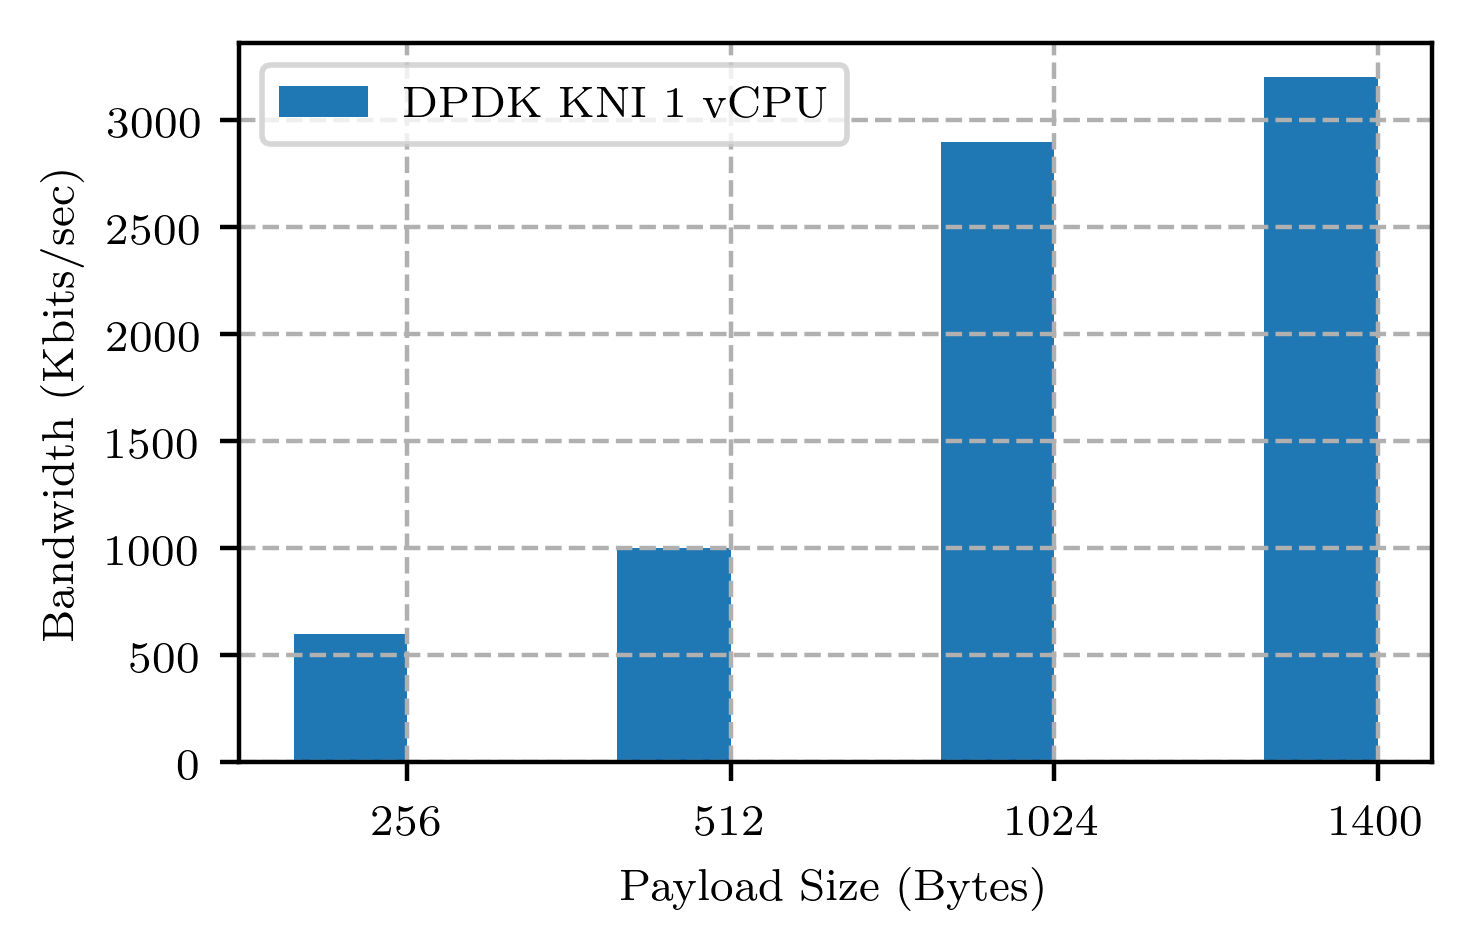
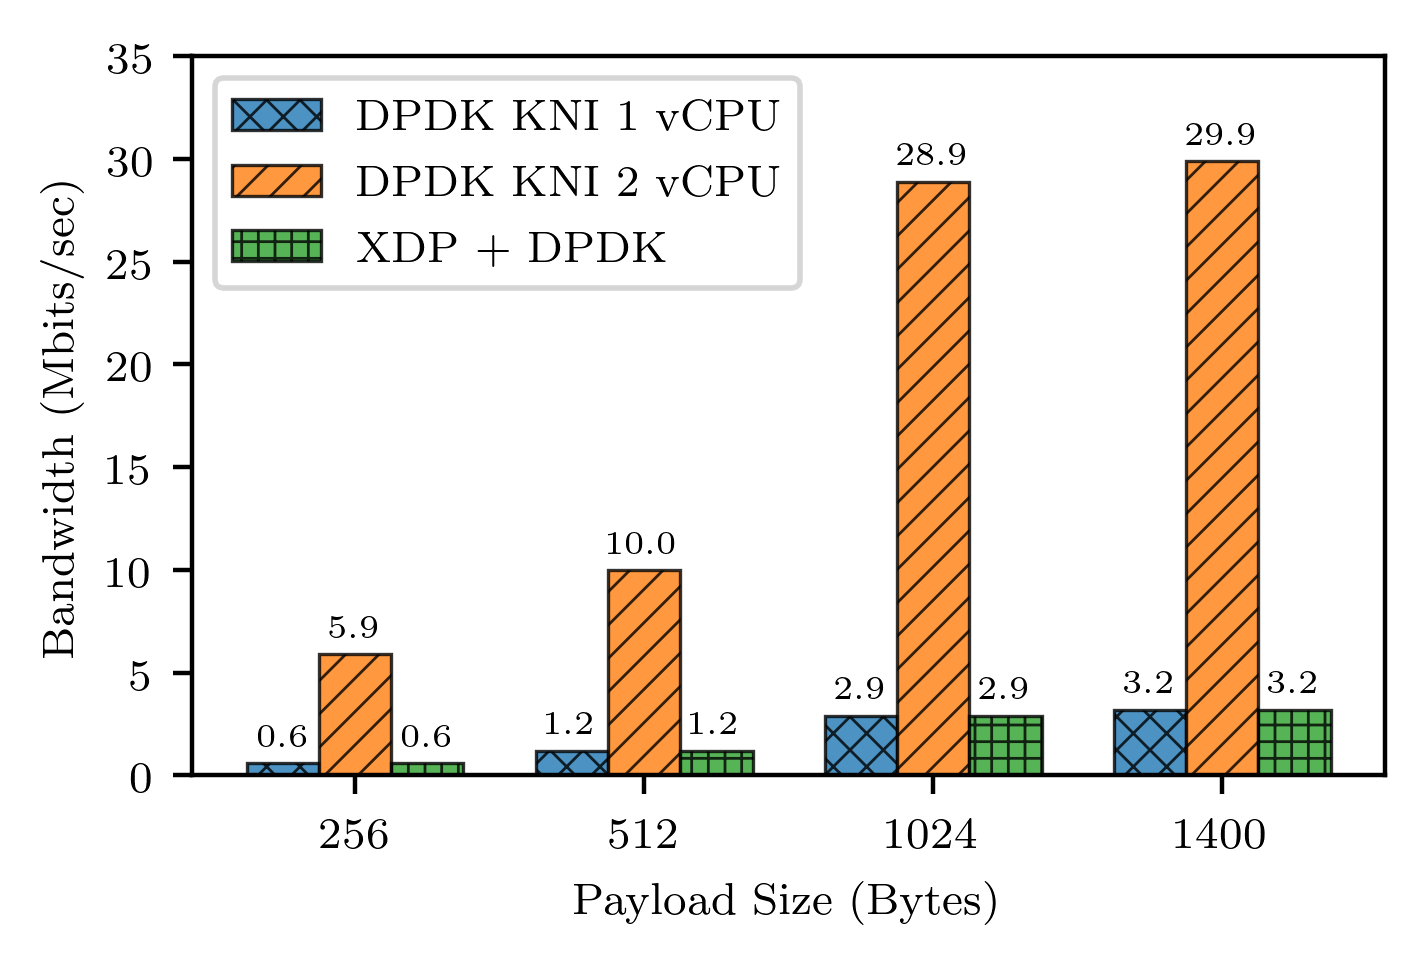
<feat>: Add bw calculation in OWD timer

diff --git a/delay_timer/udp_owd_timer.py b/delay_timer/udp_owd_timer.py
@@ -4,8 +4,10 @@
 
 """
 About: UDP One-Way Delay (OWD) timer
+
        - Packets are sent via layer 4 socket (AF_INET, SOCK_DGRAM)
        - Use synchronous and blocking IO
+       - The server CAN also calculate the bandwidth. Only used for tests.
 
 Email: xianglinks@gmail.com
 """
@@ -68,7 +70,7 @@ def run_client():
         send_sock.close()
 
 
-def run_server():
+def run_server(bw, payload_size):
     """Run UDP server"""
 
     recv_sock = socket.socket(socket.AF_INET, socket.SOCK_DGRAM,
@@ -92,6 +94,8 @@ def run_server():
 
     owd_result = list()
     data_buffer = list()
+    bw_mon_st = 0
+    bw_mon_end = 0
 
     try:
         for rd in range(1, ROUND + 1):
@@ -107,29 +111,50 @@ def run_server():
                 # So now first try to receiving as fast as possible and
                 # calculate latter...
                 data = recv_sock.recv(SRV_BUFFER_SIZE)
+                if recv_idx == 0:
+                    bw_mon_st = time.time()
                 recv_ts = int(time.time() * 1e6)
                 data_buffer.append((data, recv_ts))
                 recv_idx += 1
             else:
+                bw_mon_end = time.time()
                 # Check if receive all packets
                 if len(data_buffer) != N_PACKETS:
                     raise Exception("[Server] Not all packets are received.")
-                logger.info(
-                    "[Server] Finish receiving packets, check ordering and calculate OWDs")
-                for recv_idx, (data, recv_ts) in enumerate(data_buffer):
-                    send_idx, send_ts = struct.unpack('!QQ', data[0:16])
-                    if recv_idx != send_idx:
-                        raise Exception(
-                            "The packet order is not right!, send_idx:%d, recv_idx:%d"
-                            % (send_idx, recv_idx)
-                        )
-                    owd = recv_ts - send_ts
-                    owd_result.append(owd)
+                if bw:
+                    logger.info(
+                        "[Server] Finish receiving packets, check ordering and calculate bandwidth")
+                    for recv_idx, (data, recv_ts) in enumerate(data_buffer):
+                        send_idx, send_ts = struct.unpack('!QQ', data[0:16])
+                        if recv_idx != send_idx:
+                            raise Exception(
+                                "The packet order is not right!, send_idx:%d, recv_idx:%d"
+                                % (send_idx, recv_idx)
+                            )
+                    # bytes/second
+                    bw = ((N_PACKETS-1) * payload_size) / \
+                        (bw_mon_end - bw_mon_st)
+                    # Mbits/second
+                    bw = bw * 8 / (10.0**6)
+                    csv_file.write(str(bw))
+                    csv_file.write('\n')
+                else:
+                    logger.info(
+                        "[Server] Finish receiving packets, check ordering and calculate OWDs")
+                    for recv_idx, (data, recv_ts) in enumerate(data_buffer):
+                        send_idx, send_ts = struct.unpack('!QQ', data[0:16])
+                        if recv_idx != send_idx:
+                            raise Exception(
+                                "The packet order is not right!, send_idx:%d, recv_idx:%d"
+                                % (send_idx, recv_idx)
+                            )
+                        owd = recv_ts - send_ts
+                        owd_result.append(owd)
 
-                csv_file.write(
-                    ','.join(map(str, owd_result))
-                )
-                csv_file.write('\n')
+                    csv_file.write(
+                        ','.join(map(str, owd_result))
+                    )
+                    csv_file.write('\n')
 
     except Exception as e:
         csv_file.write(str(e))
@@ -157,6 +182,8 @@ if __name__ == "__main__":
                         help='Server recv buffer size in bytes')
     parser.add_argument('-r', '--round', type=int, default=1,
                         help='Number of sending rounds')
+    parser.add_argument('--bw', action='store_true',
+                        help='Measure bandwidth instead of OWD on the server side')
 
     group.add_argument('-c', '--client', metavar='Address', type=str,
                        help='Run in UDP client mode')
@@ -201,7 +228,10 @@ if __name__ == "__main__":
         SRV_ADDR = (ip, int(port))
         OUTPUT_FILE = args.output_file
         logger.info('Run UDP server listening on %s:%s.', ip, port)
-        run_server()
+        if args.bw:
+            logger.info('Measure bandwidth instead of OWD.')
+        PAYLOAD_SIZE = args.payload_size
+        run_server(args.bw, PAYLOAD_SIZE)
 
     if args.client:
         BIND_SRC_ADDR = False

diff --git a/evaluation/plot.py b/evaluation/plot.py
@@ -64,8 +64,8 @@ def label_bar(rects, ax):
     """
     for rect in rects:
         height = rect.get_height()
-        ax.text(rect.get_x() + rect.get_width() / 2., 1.1*height,
-                '%.2f' % height, fontsize=5,
+        ax.text(rect.get_x() + rect.get_width() / 2., height + 0.5,
+                '%.1f' % height, fontsize=6,
                 ha='center', va='bottom')
 
 
@@ -78,35 +78,45 @@ def plot_bw():
     PAYLOAD_SIZE = [256, 512, 1024, 1400]
     cmap = cm.get_cmap('tab10')
     csv_names = [
-        'udp_bw_dpdk_fwd_kni_1core.csv'
+        'udp_bw_dpdk_fwd_kni_1core.csv',
+        'udp_bw_dpdk_fwd_kni_2core.csv',
+        'udp_bw_xdp_dpdk_fwd.csv'
     ]
 
     N = 4
     ind = np.arange(N)    # the x locations for the groups
-    width = 0.35         # the width of the bars
+    width = 0.25         # the width of the bars
     fig, ax = plt.subplots()
     labels = [
         "DPDK KNI 1 vCPU",
+        "DPDK KNI 2 vCPU",
+        "XDP + DPDK"
 
     ]
+    hatch_patterns = ('xxxx', '////', '++++', '*', 'o', 'O', '.')
+
     for idx, csv in enumerate(csv_names):
         csv_path = os.path.join("./bandwidth/results/", csv)
         bw_arr = np.genfromtxt(csv_path, delimiter=',',
-                               usecols=list(range(0, 2)))
+                               usecols=list(range(0, 2))) / 1000.0
         bw_avg = bw_arr[:, 1]
-        p1 = ax.bar(ind, bw_avg, width, color=cmap(idx), bottom=0,
-                    label=labels[idx])
+        bar = ax.bar(ind + idx * width, bw_avg, width, color=cmap(idx), bottom=0,
+                     edgecolor='black', alpha=0.8, lw=0.6,
+                     hatch=hatch_patterns[idx],
+                     label=labels[idx])
+        label_bar(bar, ax)
 
-    ax.set_ylabel('Bandwidth (Kbits/sec)')
+    ax.set_ylabel('Bandwidth (Mbits/sec)')
 
-    ax.set_xticks(ind + width / 2)
+    ax.set_xticks(ind + (len(labels) - 1)*(width / 2))
     ax.set_xticklabels(('256', '512', '1024', '1400'))
     ax.set_xlabel('Payload Size (Bytes)')
+    ax.set_ylim(0, 35)
 
     handles, labels = ax.get_legend_handles_labels()
     ax.legend(handles, labels, loc='upper left')
-    ax.autoscale_view()
-    ax.grid(linestyle='--')
+    # ax.autoscale_view()
+    # ax.grid(linestyle='--')
 
     save_fig(fig, "./bandwidth")
 
